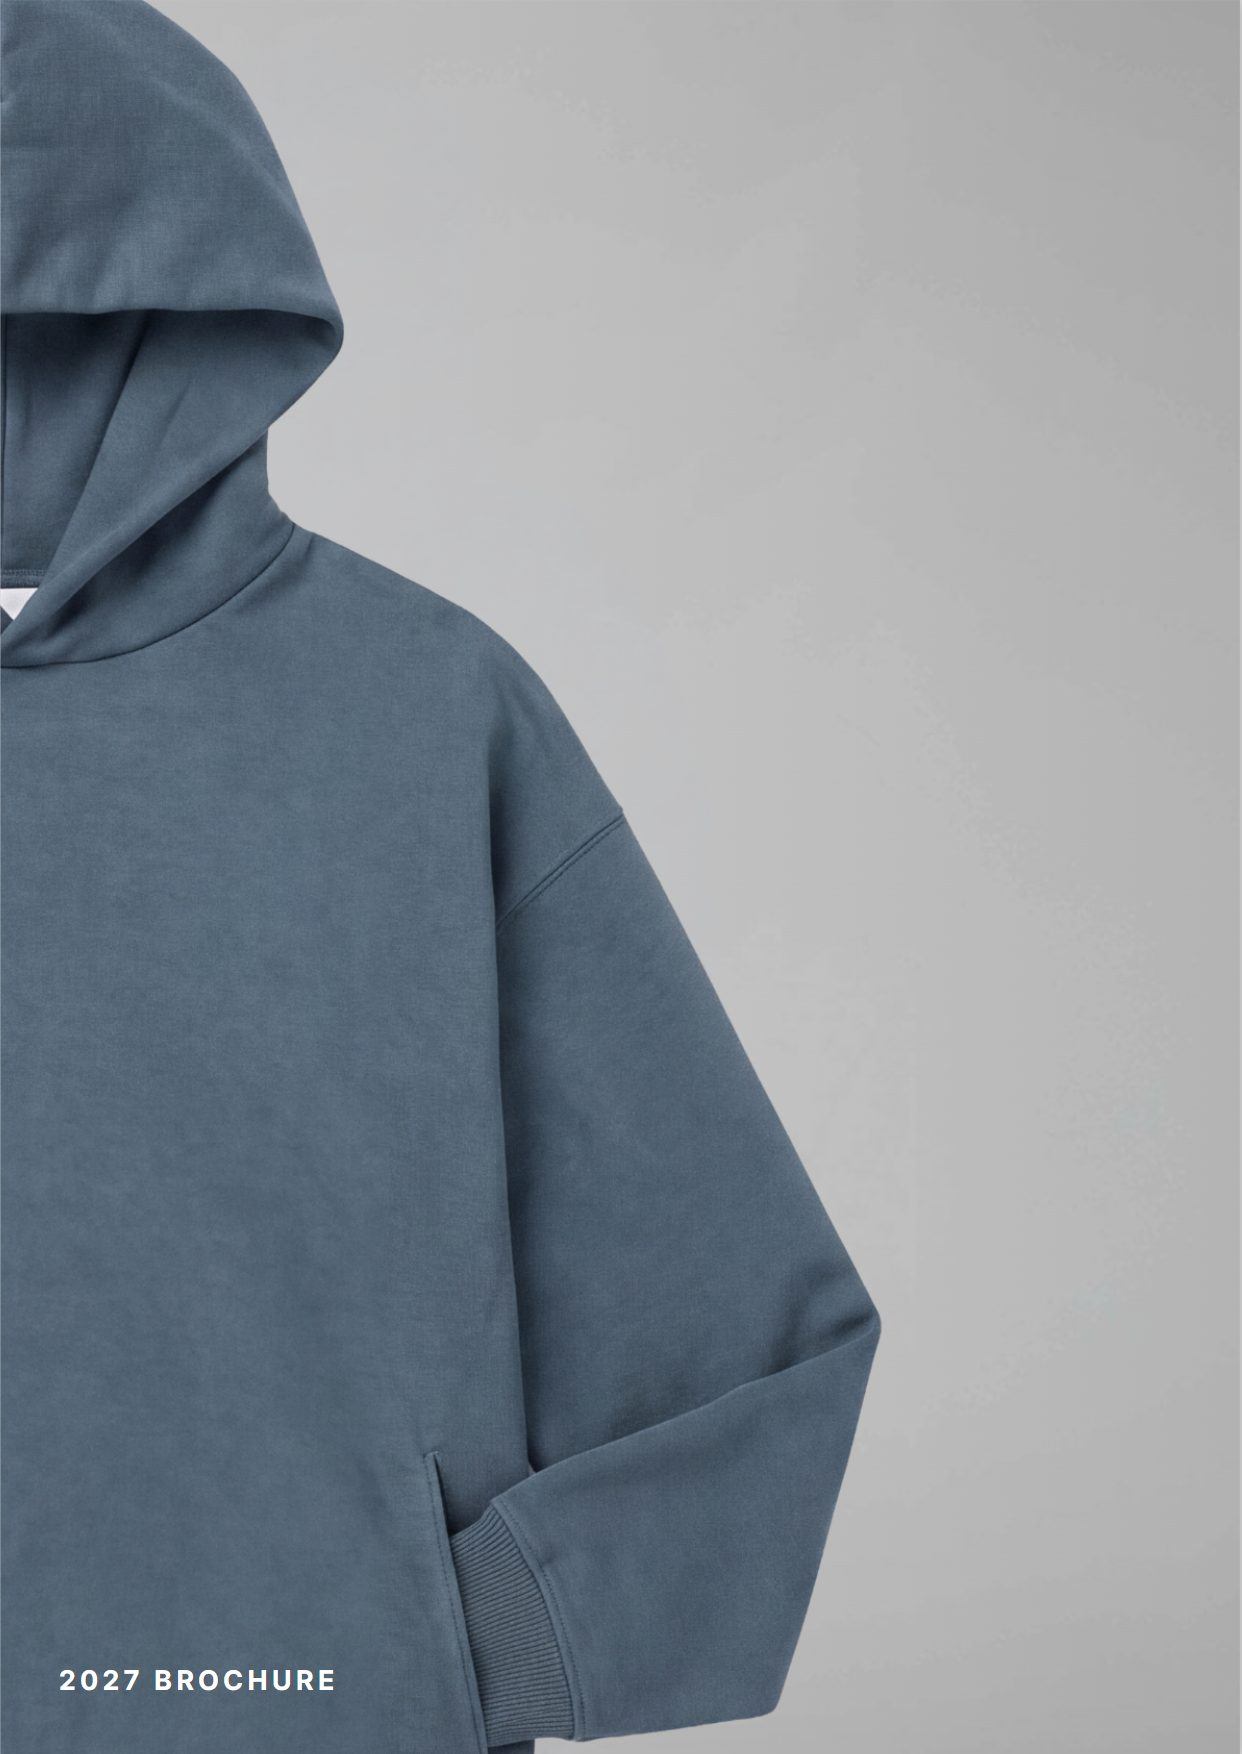
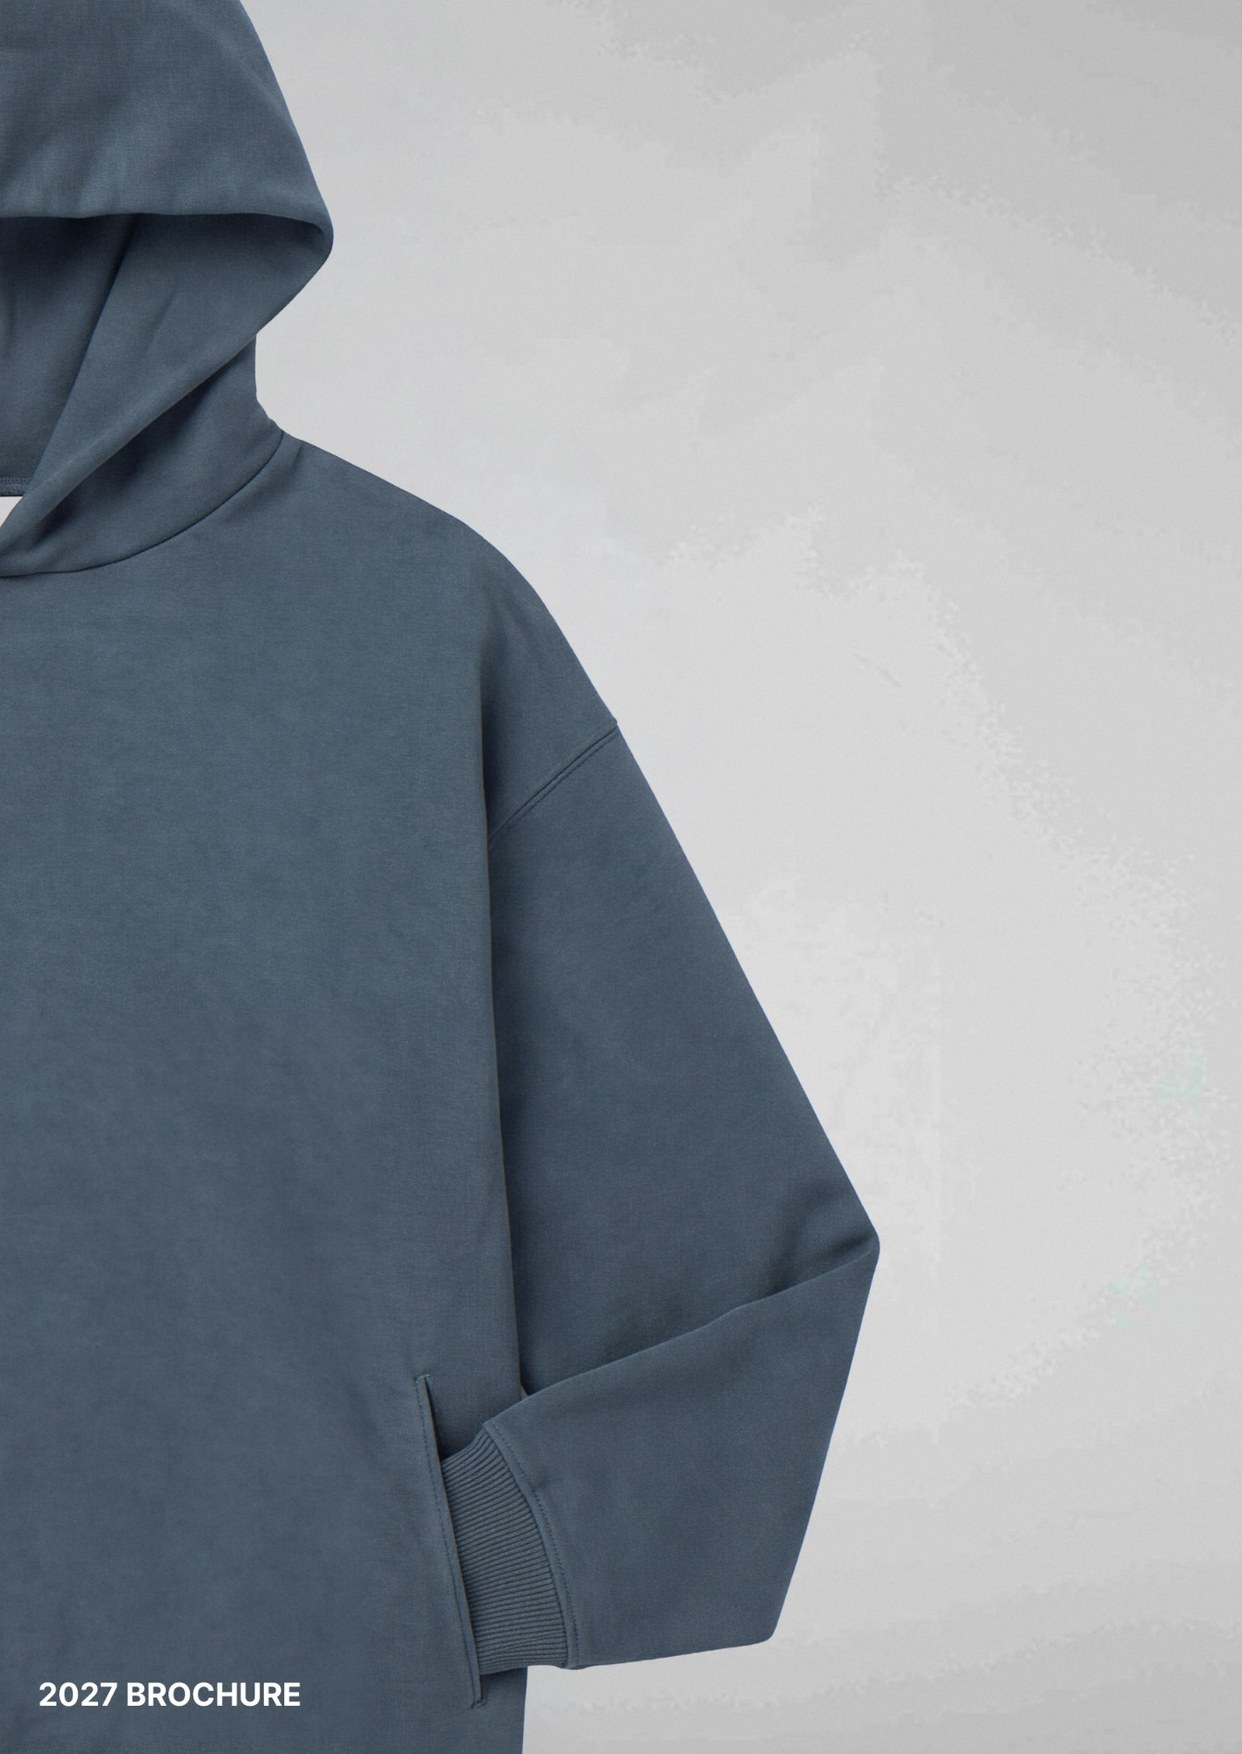
Use the supplied grey and white front covers (hoodie aligned to the backs) as overrides

diff --git a/tools/build_custom.py b/tools/build_custom.py
@@ -31,12 +31,28 @@ OPT_BY_PAGE = {p: i for i, _l, p in OPTIONS}
 THUMB_W = 397
 
 
+def apply_front_overrides(root):
+    """Front covers supplied as finished images (brochures/<id>/overrides/front-<style>.jpg) replace the rendered ones.
+    They are scaled to fill the A4 page and trimmed at the top, so the "2027 BROCHURE" line stays at the bottom."""
+    out = root / "pages"
+    for f in sorted((root / "overrides").glob("front-*.jpg")):
+        style = f.stem.split("-", 1)[1]
+        W, H = Image.open(out / f"p01-{style}.jpg").size
+        im = Image.open(f).convert("RGB")
+        k = max(W / im.width, H / im.height)
+        im = im.resize((round(im.width * k), round(im.height * k)), Image.LANCZOS)
+        left, top = (im.width - W) // 2, im.height - H
+        im.crop((left, top, left + W, top + H)).save(out / f"p01-{style}.jpg", quality=88)
+        print("front cover override:", style, f.name)
+
+
 def main(folder, brochure_id="2027", skip_render=False):
     root = ROOT / "brochures" / brochure_id
     out = root / "pages"
     if not skip_render:
         subprocess.run(["node", str(TOOLS / "render_html.js"), folder, str(root)], check=True)
     render = json.loads((root / "render.json").read_text(encoding="utf8"))
+    apply_front_overrides(root)
 
     thumbs = out / "thumb"
     thumbs.mkdir(exist_ok=True)

diff --git a/README.md b/README.md
@@ -23,6 +23,10 @@ the index, the printed page numbers, and the "Kids version available on page N",
   captured, what depends on page order is hidden and its position recorded (`render.json`): the printed page number (with its
   colour: white on the photo pages), the "see page N" notes, and the index page's text and rules.
 
+- **Front covers supplied as images** - `brochures/2027/overrides/front-grey.jpg` and `front-white.jpg` (hoodie aligned to the back
+  pages) replace the rendered grey and white fronts on every build. They are scaled to the page width and trimmed at the top.
+  To change a front cover, replace the file; to go back to the design file's cover, delete it.
+
 ## How it works
 - `brochures/2027/pages/` - `pNN.jpg` (interior), `p01-<style>.jpg` / `p44-<style>.jpg` (cover / back per style), `thumb/` (picker tiles).
 - `brochures/2027/catalog.json` - products, which pages each owns, the options, the notes, the defaults and the styles.
